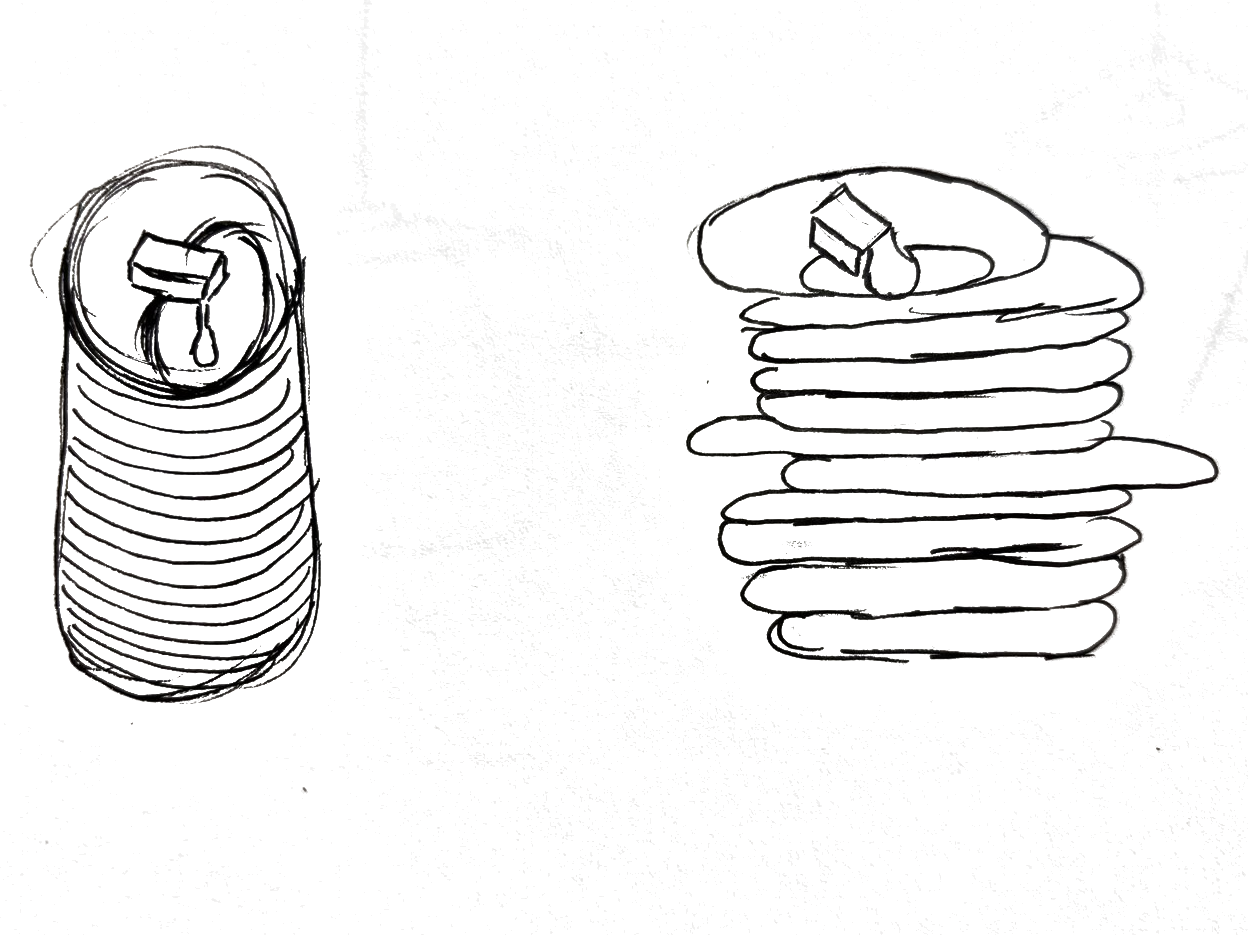
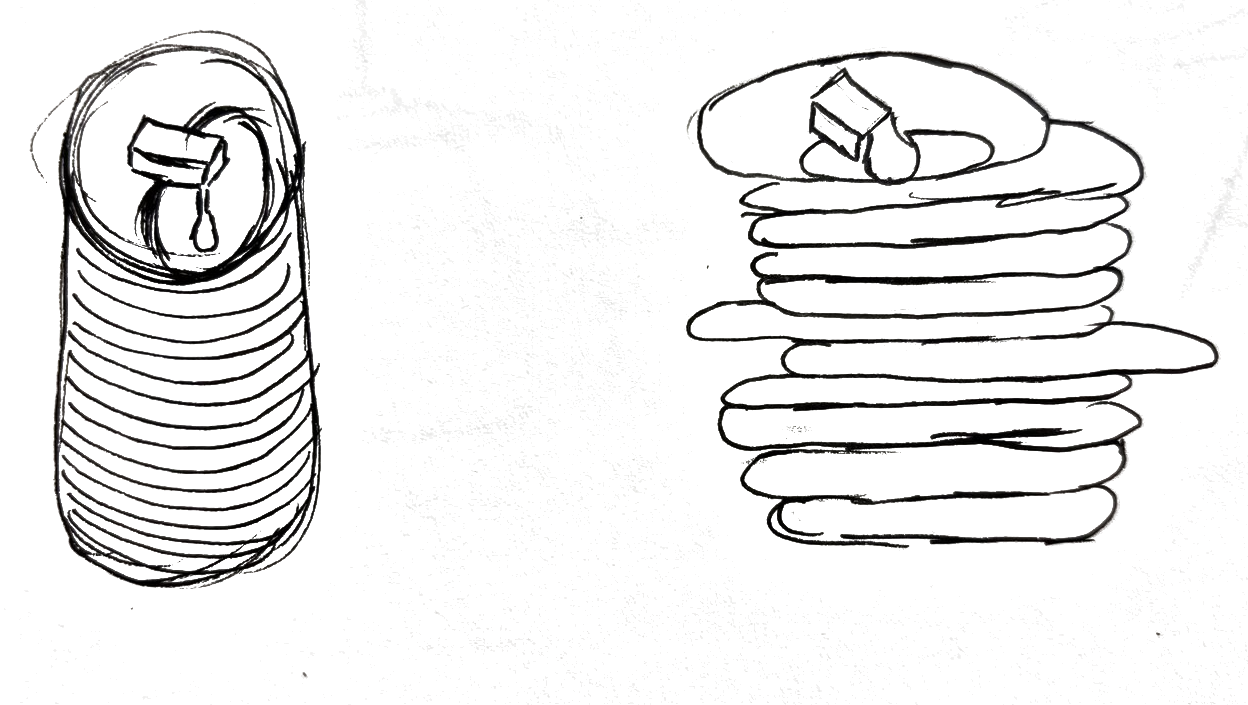
Fix large gap before Concept Development
The previous object-study-1/2.png crop padded the images out to a
forced 4:3 ratio to match the .sego-pair box, adding ~150-260px of
blank paper inside each tile that read as a huge empty gap before the
next heading. Recropped tightly to content (small breathing margin
only) and added a new .ar-16-9 modifier matching the pair's natural
~1.78:1 aspect, so the box now fits the actual sketches instead of
padding out to a mismatched ratio.

diff --git a/styles.css b/styles.css
@@ -759,6 +759,7 @@ main.about-page {
 .ar-tall.sego-pair img, .ar-tall.sego-trio img, .ar-tall.fig-quad img { aspect-ratio: 3/4; }
 .ar-square.sego-pair img, .ar-square.sego-trio img { aspect-ratio: 1/1; }
 .ar-wide.sego-pair img, .ar-wide.cs-fig-pair img { aspect-ratio: 3/1; }
+.ar-16-9.sego-pair img { aspect-ratio: 16/9; }
 .fig-quad figcaption {
   font-size: 12px; letter-spacing: 0.08em; text-transform: uppercase;
   color: var(--ink-soft); margin-top: 8px;

diff --git a/relume.html b/relume.html
@@ -150,7 +150,7 @@
         <p class="source-note">Note: images sourced from the web</p>
 
         <p class="cs-subh">Early Object Studies</p>
-        <div class="sego-pair">
+        <div class="sego-pair ar-16-9">
           <figure>
             <img src="images/relume/object-study-1.png" alt="Early sketch studies of canister and stacked-disc lamp forms" loading="lazy" />
           </figure>
